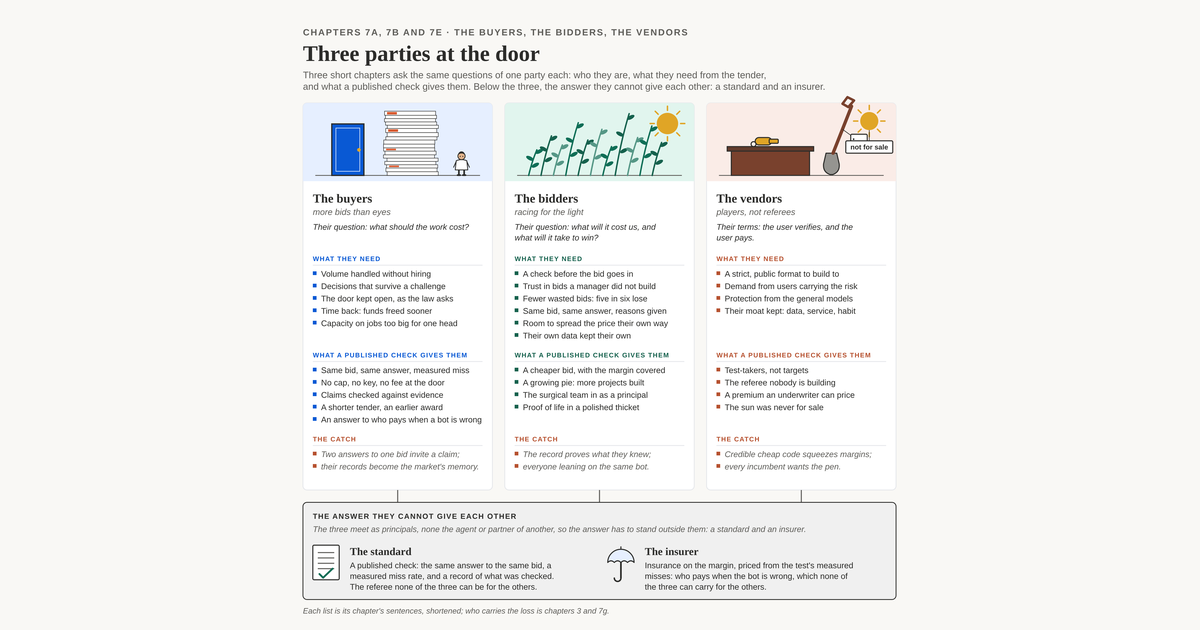
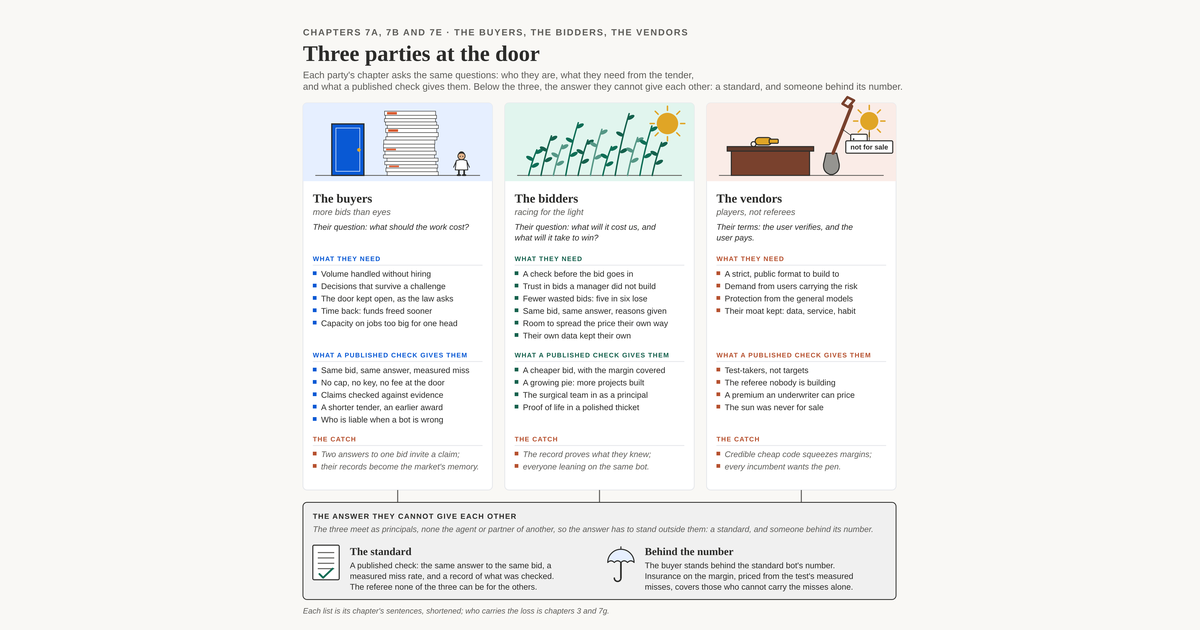
Figures: the buyer behind the number, rely-on error bands, estimator in development
Wording only, layouts unchanged, from the figure audit of 19 November:
- Three parties: the subtitle no longer says three short chapters, and
  the band's second half is 'Behind the number' (the buyer stands behind
  the standard bot's number; margin insurance covers those who cannot
  carry the misses alone), after the 17 November base case.
- Testing process: 'The only error bands a buyer can rely on come from
  here', since the chapter quotes rehearsal bands.
- Machinery thicket: 'Who answers for the drawings' errors?' and the
  estimator tagged 'In development', not 'Built · version 0.3'.

Claude-Session: https://claude.ai/code/session_01JEzVpdwHsBm4TzAPgJjSfA

diff --git a/images/three_parties.py b/images/three_parties.py
@@ -48,8 +48,8 @@ BAND = 190
 o = [f'<rect width="{W}" height="{H}" fill="{C["canvas"]}"/>']
 o.append(t(80, 86, "CHAPTERS 7A, 7B AND 7E · THE BUYERS, THE BIDDERS, THE VENDORS", "eyebrow"))
 o.append(t(80, 148, "Three parties at the door", "title"))
-o.append(t(80, 190, "Three short chapters ask the same questions of one party each: who they are, what they need from the tender,", "dek"))
-o.append(t(80, 218, "and what a published check gives them. Below the three, the answer they cannot give each other: a standard and an insurer.", "dek"))
+o.append(t(80, 190, "Each party's chapter asks the same questions: who they are, what they need from the tender,", "dek"))
+o.append(t(80, 218, "and what a published check gives them. Below the three, the answer they cannot give each other: a standard, and someone behind its number.", "dek"))
 # ---- icons, drawn inside the tinted band at the top of each panel
 def icon_buyers(bx, by):
     gy = by + BAND - 14; g = []
@@ -165,10 +165,10 @@ for x in XS:
     o.append(f'<line x1="{x+CW/2}" y1="{BOT}" x2="{x+CW/2}" y2="{BY0}" stroke="{C["ink2"]}" stroke-width="2.5"/>')
 o.append(f'<rect x="80" y="{BY0}" width="{W-160}" height="{BH}" rx="10" fill="{mix(C["hair"], C["canvas"], 0.55)}" stroke="{C["ink"]}" stroke-width="2"/>')
 o.append(t(104, BY0 + 40, "THE ANSWER THEY CANNOT GIVE EACH OTHER", "bhead", C["ink"]))
-o.append(t(104, BY0 + 72, "The three meet as principals, none the agent or partner of another, so the answer has to stand outside them: a standard and an insurer.", "bsub", C["ink2"]))
+o.append(t(104, BY0 + 72, "The three meet as principals, none the agent or partner of another, so the answer has to stand outside them: a standard, and someone behind its number.", "bsub", C["ink2"]))
 halves = [
     (104, "The standard", icon_rules, "A published check: the same answer to the same bid, a measured miss rate, and a record of what was checked. The referee none of the three can be for the others."),
-    (820, "The insurer", icon_umbrella, "Insurance on the margin, priced from the test's measured misses: who is liable when the bot is wrong, which none of the three can carry for the others."),
+    (820, "Behind the number", icon_umbrella, "The buyer stands behind the standard bot's number. Insurance on the margin, priced from the test's measured misses, covers those who cannot carry the misses alone."),
 ]
 for hx, name, icon, body in halves:
     o.append(icon(hx, BY0 + 104))

diff --git a/images/testing_process.py b/images/testing_process.py
@@ -90,7 +90,7 @@ WINDOWS = [
      "Researchers call this validation data",
      [C["sec"], C["sec_d"], mix(C["sec"], "#ffffff", .25)], loop, C["sec_d"]),
     ("3 · Final test", ["Newer bid results,", "piling up online"],
-     ["Left alone until there is a", "product and someone who", "wants the answer. The error", "bands we quote come only", "from here."],
+     ["Left alone until there is a", "product and someone who", "wants the answer. The only", "error bands a buyer can rely", "on come from here."],
      "Researchers call this test data",
      [mix(C["acc"], "#ffffff", .5), mix(C["acc"], "#ffffff", .64), mix(C["acc"], "#ffffff", .74)], padlock, C["acc_d"]),
 ]

diff --git a/images/README.md b/images/README.md
@@ -16,4 +16,4 @@ Figures for the book, the site and the PiBoWriMo listing. They are covered by th
 - `oak-falls.png` (and `.svg`): "The oak falls", chapter 1's figure for "The cost of a call" and "The oak falls". Left, the cost of bidding as an oak, with a few large bidders and the plan room grown in its shade and the rest shaded out; right, the stump, the fallen trunk, light pouring into the clearing and a thicket racing for it, over a forest floor that is the market's record. Also the chapter's link card (`social-card-oak-falls.png`). Rebuild with `python images/oak_falls.py images/oak-falls`, then `node images/project_hex_map_render.js "$PWD/images/oak-falls.html" images/oak-falls.png 1600 1000`.
 - `four-doors.png` (and `.svg`): "Four ways to answer a flooded door", chapter 1's figure for the section of that name. Cap, key, fee and the published check as four doors, each with its device (a plate reading two a month and a rope barrier; a keyhole and a key on a hook; a slot marked insert bond and a coin; a door standing open with the rules posted beside it), its online twin, its construction twin and the chapter's verdict. Rebuild with `python images/four_doors.py images/four-doors`, then `node images/project_hex_map_render.js "$PWD/images/four-doors.html" images/four-doors.png 1600 1210`.
 - `slack-other-option.png` (and `.svg`): "Slack, and the other option", chapter 1's figure for the section of that name. A schematic chart, not data: bids per tender against the eyes available to read them, from the plan room through the plan room online to AI making the call nearly free; the attention line stays flat while the bids climb past it, the gap below marked slack and the gap above the thicket; beside it Galbraith's two choices as two lists of where the book finds each, add slack (the cushion, the long tender, the oak, the contingency, the supplier of one, the margin, Taylorism's plateau) and raise the capacity (the second opinion, the tender as data, the same check, the record, the open door, the evaluator and keyholder, insurance on the margin, the standard). Rebuild with `python images/slack_other_option.py images/slack-other-option`, then `node images/project_hex_map_render.js "$PWD/images/slack-other-option.html" images/slack-other-option.png 1600 1240`.
-- `three-parties.png` (and `.svg`): "Three parties at the door", the shared figure of chapters 7a, 7b and 7e, placed at the top of 7a. Three panels, one per chapter, each with an icon (the buyers' door and a stack of bids taller than the reader; the bidders' thicket leaning to a sun; the vendors' counter with a whistle, a shovel with a price tag and a sun marked not for sale), the party's question, and three lists in the chapters' own words shortened: what they need, what a published check gives them, the catch. Under the three, a band for the answer they cannot give each other, since they meet as principals: the standard and the insurer. Also 6a's link card (`social-card-three-parties.png`). Rebuild with `python images/three_parties.py images/three-parties`, then `node images/project_hex_map_render.js "$PWD/images/three-parties.html" images/three-parties.png 1600 1530`.
+- `three-parties.png` (and `.svg`): "Three parties at the door", the shared figure of chapters 7a, 7b and 7e, placed at the top of 7a. Three panels, one per chapter, each with an icon (the buyers' door and a stack of bids taller than the reader; the bidders' thicket leaning to a sun; the vendors' counter with a whistle, a shovel with a price tag and a sun marked not for sale), the party's question, and three lists in the chapters' own words shortened: what they need, what a published check gives them, the catch. Under the three, a band for the answer they cannot give each other, since they meet as principals: the standard, and someone behind its number (the buyer, or an insurer on the margin for those who cannot carry the misses). Also 6a's link card (`social-card-three-parties.png`). Rebuild with `python images/three_parties.py images/three-parties`, then `node images/project_hex_map_render.js "$PWD/images/three-parties.html" images/three-parties.png 1600 1530`.
